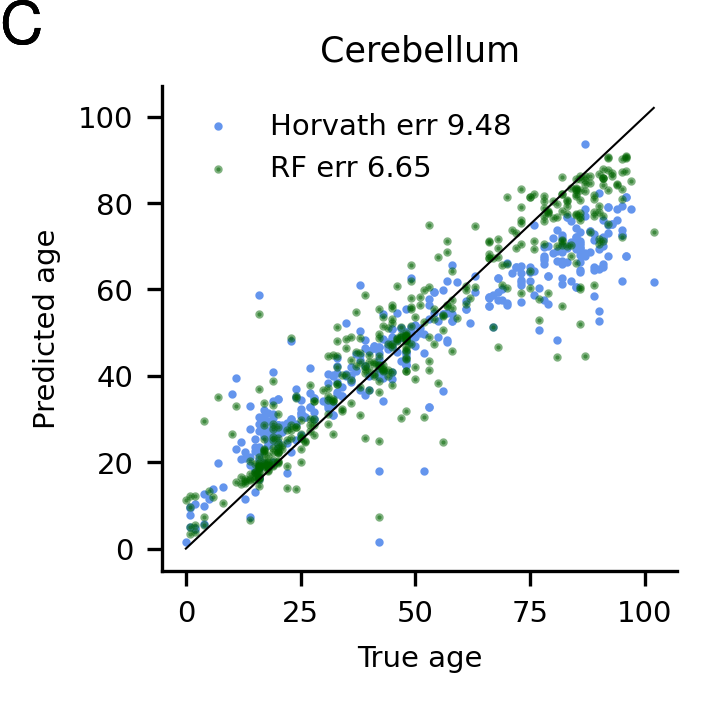
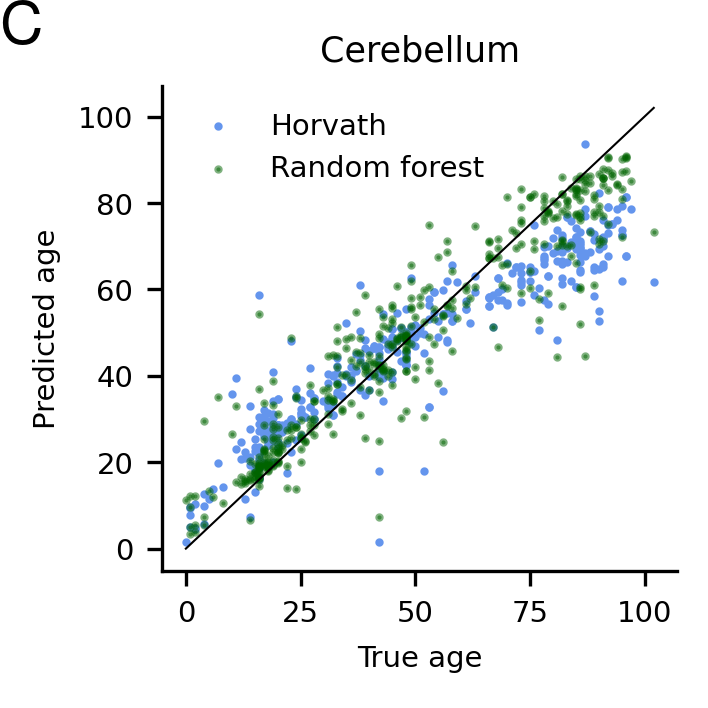
rf

Changed region(s): [[0.404, 0.2175, 0.6836, 0.2486], [0.5593, 0.1554, 0.7458, 0.1864], [0.3729, 0.1554, 0.435, 0.1864]]

diff --git a/age_models/cerebellum/age_rf.py b/age_models/cerebellum/age_rf.py
@@ -11,6 +11,7 @@ import matplotlib
 import matplotlib.pyplot as plt
 from sklearn.ensemble import RandomForestRegressor
 from sklearn.model_selection import KFold
+from scipy.stats import pearsonr
 
 import numpy as np
 
@@ -55,10 +56,12 @@ def rf_fit(sel_marker_values, ages, horvath_preds, outdir):
     fig,ax = plt.subplots(figsize=(6/2.54, 6/2.54))
     #Plot Horvath
     horvath_error = np.average(np.absolute(ages-horvath_preds))
-    plt.scatter(ages,horvath_preds,color='cornflowerblue',s=1,label='Horvath err '+str(np.round(horvath_error,2)))
+    horvath_corr = pearsonr(ages,horvath_preds)[0]
+    plt.scatter(ages,horvath_preds,color='cornflowerblue',s=1,label='Horvath')
     #5-fold CV
     kf = KFold(n_splits=5, random_state=42, shuffle=True)
     errors = []
+    corrs = []
     fold = 0
     for ti, vi in kf.split(sel_marker_values):
         fold+=1 #Increase fold
@@ -72,8 +75,9 @@ def rf_fit(sel_marker_values, ages, horvath_preds, outdir):
         regr.fit(X_train, y_train)
         pred = regr.predict(X_valid)
         errors.append(np.average(np.absolute(pred-y_valid)))
+        corrs.append(pearsonr(pred,y_valid)[0])
         if fold ==5:
-            plt.scatter(y_valid,pred,s=1,color='darkgreen',label='RF err '+str(np.round(np.average(errors),2)),alpha=0.5)
+            plt.scatter(y_valid,pred,s=1,color='darkgreen',label='Random forest',alpha=0.5)
         else:
             plt.scatter(y_valid,pred,s=1,color='darkgreen',alpha=0.5)
 
@@ -89,6 +93,8 @@ def rf_fit(sel_marker_values, ages, horvath_preds, outdir):
     plt.savefig(outdir+'cv_results.png', format='png', dpi=300)
     plt.close()
 
+    print('Horvath',horvath_error,horvath_corr)
+    print('Random forest',np.average(errors),np.std(errors),np.average(corrs),np.std(corrs))
 
 ###########MAIN###########
 #Plt

diff --git a/age_models/fctx/age_rf.py b/age_models/fctx/age_rf.py
@@ -11,6 +11,7 @@ import matplotlib
 import matplotlib.pyplot as plt
 from sklearn.ensemble import RandomForestRegressor
 from sklearn.model_selection import KFold
+from scipy.stats import pearsonr
 
 import numpy as np
 
@@ -55,10 +56,12 @@ def rf_fit(sel_marker_values, ages, horvath_preds, outdir):
     fig,ax = plt.subplots(figsize=(6/2.54, 6/2.54))
     #Plot Horvath
     horvath_error = np.average(np.absolute(ages-horvath_preds))
-    plt.scatter(ages,horvath_preds,color='cornflowerblue',s=1,label='Horvath err '+str(np.round(horvath_error,2)))
+    horvath_corr = pearsonr(ages,horvath_preds)[0]
+    plt.scatter(ages,horvath_preds,color='cornflowerblue',s=1,label='Horvath')
     #5-fold CV
     kf = KFold(n_splits=5, random_state=42, shuffle=True)
     errors = []
+    corrs = []
     fold = 0
     for ti, vi in kf.split(sel_marker_values):
         fold+=1 #Increase fold
@@ -72,8 +75,9 @@ def rf_fit(sel_marker_values, ages, horvath_preds, outdir):
         regr.fit(X_train, y_train)
         pred = regr.predict(X_valid)
         errors.append(np.average(np.absolute(pred-y_valid)))
+        corrs.append(pearsonr(pred,y_valid)[0])
         if fold ==5:
-            plt.scatter(y_valid,pred,s=1,color='darkgreen',label='RF err '+str(np.round(np.average(errors),2)),alpha=0.5)
+            plt.scatter(y_valid,pred,s=1,color='darkgreen',label='Random forest',alpha=0.5)
         else:
             plt.scatter(y_valid,pred,s=1,color='darkgreen',alpha=0.5)
 
@@ -89,6 +93,8 @@ def rf_fit(sel_marker_values, ages, horvath_preds, outdir):
     plt.savefig(outdir+'cv_results.png', format='png', dpi=300)
     plt.close()
 
+    print('Horvath',horvath_error,horvath_corr)
+    print('Random forest',np.average(errors),np.std(errors),np.average(corrs),np.std(corrs))
 
 ###########MAIN###########
 #Plt

diff --git a/age_models/blood/age_rf.py b/age_models/blood/age_rf.py
@@ -11,6 +11,7 @@ import matplotlib
 import matplotlib.pyplot as plt
 from sklearn.ensemble import RandomForestRegressor
 from sklearn.model_selection import KFold
+from scipy.stats import pearsonr
 
 import numpy as np
 
@@ -34,11 +35,13 @@ def rf_fit(sel_marker_values, ages, hannum_preds, outdir):
     fig,ax = plt.subplots(figsize=(6/2.54, 6/2.54))
     #Plot hannum
     hannum_error = np.average(np.absolute(ages-hannum_preds))
-    plt.scatter(ages,hannum_preds,color='cornflowerblue',s=1,label='Hannum err '+str(np.round(hannum_error,2)))
+    hannum_corr = pearsonr(ages,hannum_preds)[0]
+    plt.scatter(ages,hannum_preds,color='cornflowerblue',s=1,label='Hannum')
 
     #5-fold CV
     kf = KFold(n_splits=5, random_state=42, shuffle=True)
     errors = []
+    corrs = []
     fold = 0
     for ti, vi in kf.split(sel_marker_values):
         fold+=1 #Increase fold
@@ -52,8 +55,9 @@ def rf_fit(sel_marker_values, ages, hannum_preds, outdir):
         regr.fit(X_train, y_train)
         pred = regr.predict(X_valid)
         errors.append(np.average(np.absolute(pred-y_valid)))
+        corrs.append(pearsonr(pred,y_valid)[0])
         if fold ==5:
-            plt.scatter(y_valid,pred,s=1,color='darkgreen',label='RF err '+str(np.round(np.average(errors),2)),alpha=0.5)
+            plt.scatter(y_valid,pred,s=1,color='darkgreen',label='Random forest',alpha=0.5)
         else:
             plt.scatter(y_valid,pred,s=1,color='darkgreen',alpha=0.5)
 
@@ -69,6 +73,8 @@ def rf_fit(sel_marker_values, ages, hannum_preds, outdir):
     plt.savefig(outdir+'cv_results.png', format='png', dpi=300)
     plt.close()
 
+    print('Hannum',hannum_error,hannum_corr)
+    print('Random forest',np.average(errors),np.std(errors),np.average(corrs),np.std(corrs))
 
 ###########MAIN###########
 #Plt
